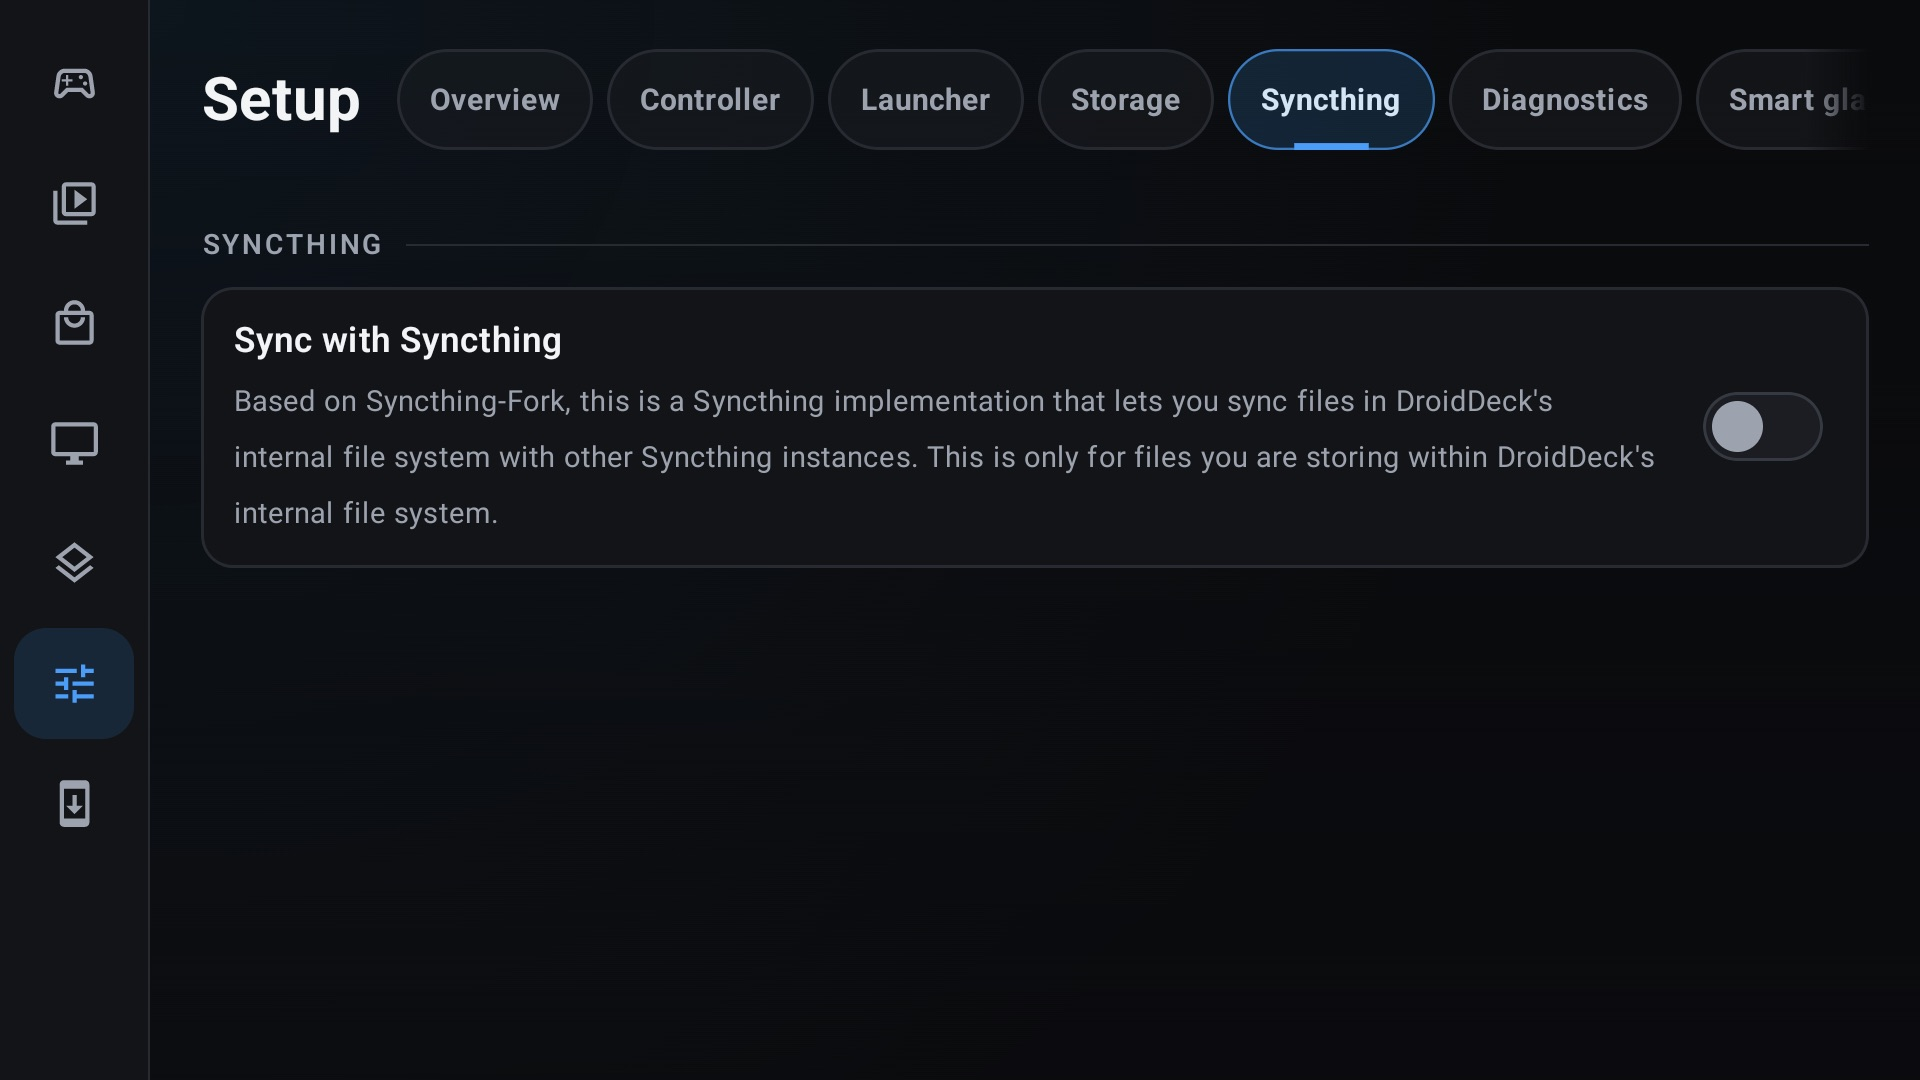
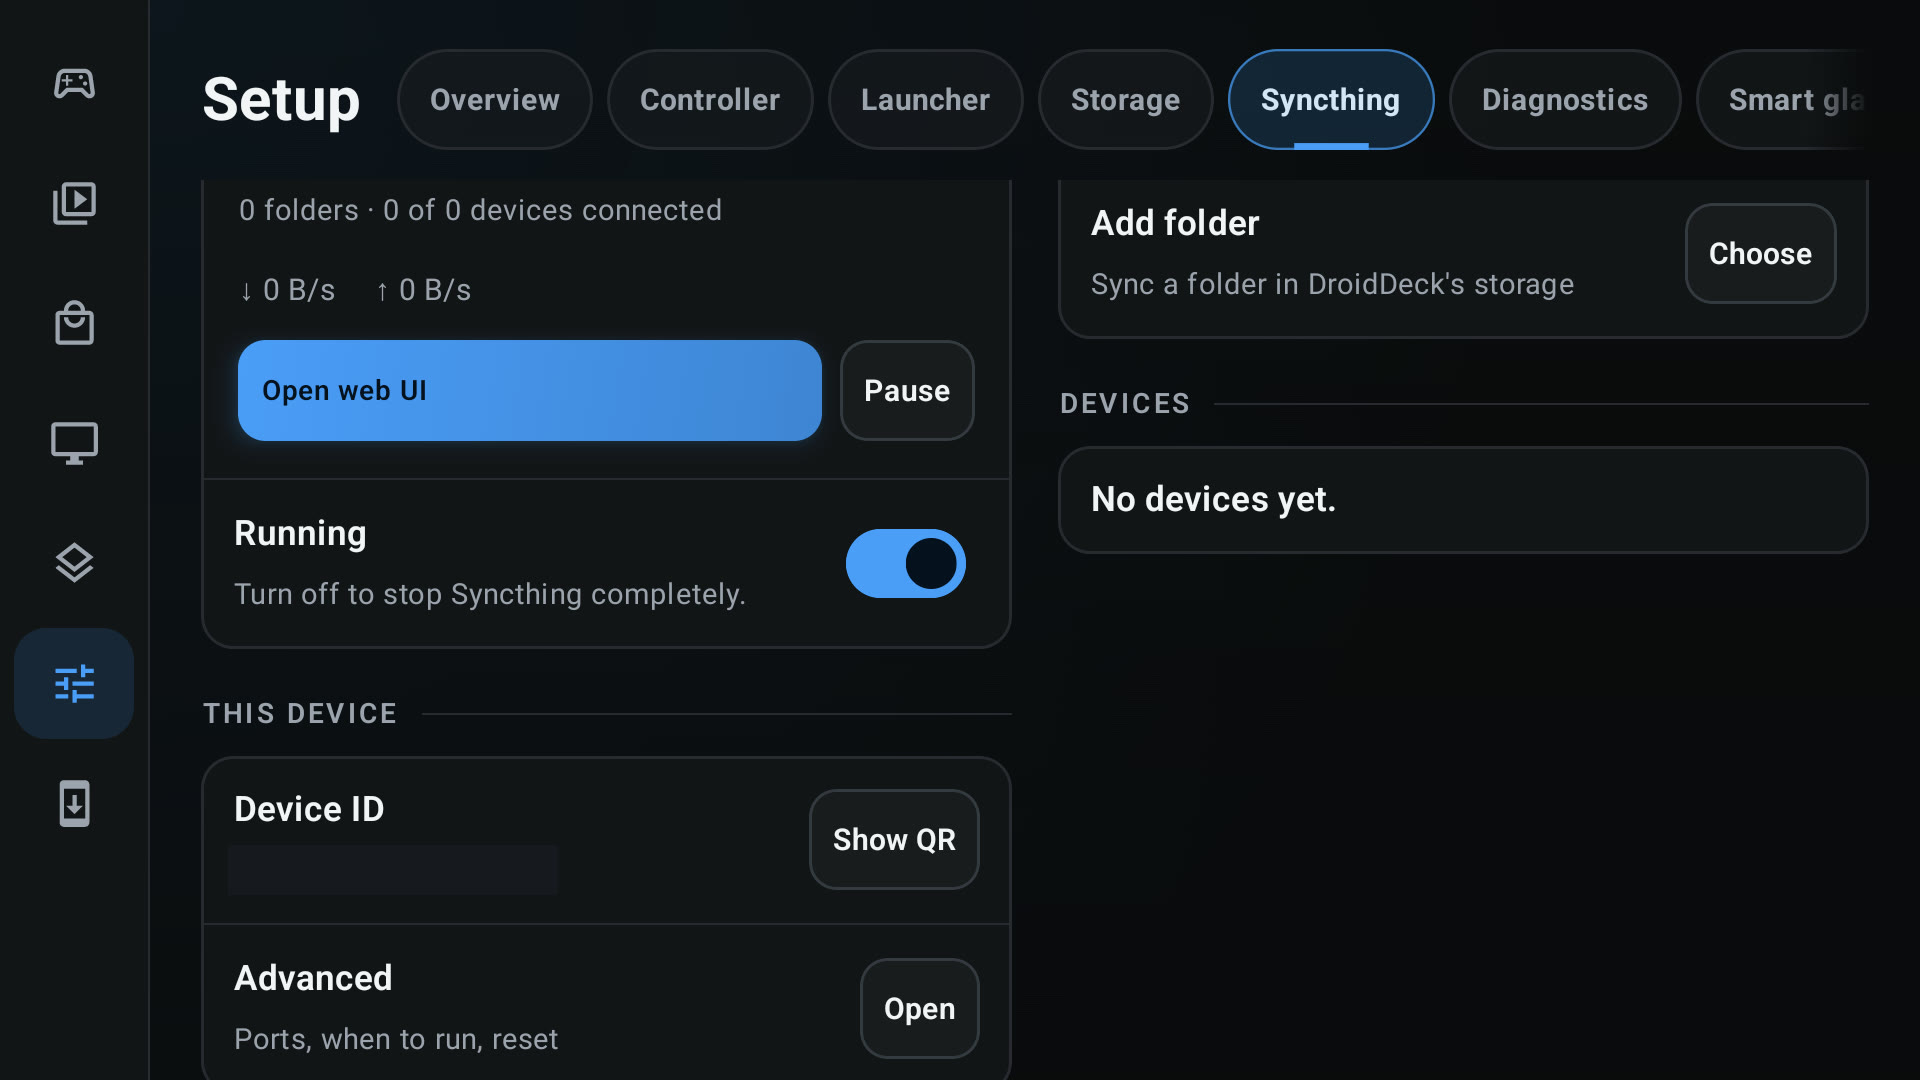
docs: swap in the new Syncthing screenshot

diff --git a/docs/releases/0.7.0.md b/docs/releases/0.7.0.md
@@ -36,7 +36,7 @@ Since 0.6.9, **38 people** sent **131 pull requests**. Thank you to everyone who
 - **EA games install the EA app** through Steam, and the EA sign-in stays in front of the launcher’s splash screen. (@K11MCH1, [#2036](https://github.com/Droid-Deck/DroidDeck/pull/2036), [#2037](https://github.com/Droid-Deck/DroidDeck/pull/2037), [#2045](https://github.com/Droid-Deck/DroidDeck/pull/2045))
 - Added built-in **Syncthing**, so you can sync saves and games from DroidDeck’s own storage without another app. (@superboo07, [#1442](https://github.com/Droid-Deck/DroidDeck/pull/1442))
 
-  <img src="media/0.7.0/syncthing.jpg" width="50%" alt="The Syncthing page in Setup with the Sync with Syncthing switch">
+  <img src="media/0.7.0/syncthing.jpg" width="50%" alt="The Syncthing page in Setup with Open web UI, Pause, Add folder and a Running switch">
 - Added **Startup** choices: Never, Steam or Desktop. Your old “Start Steam with DroidDeck” setting carries over as Steam. (@xXJSONDeruloXx, [#1993](https://github.com/Droid-Deck/DroidDeck/pull/1993))
 - Added two **live wallpapers** to Android’s wallpaper picker: DroidDeck Desktop and DroidDeck Wall. (@xXJSONDeruloXx, [#2012](https://github.com/Droid-Deck/DroidDeck/pull/2012))
 - The **desktop session follows the app language**, so Plasma and its apps are no longer English only. (@xXJSONDeruloXx, [#1971](https://github.com/Droid-Deck/DroidDeck/pull/1971))
